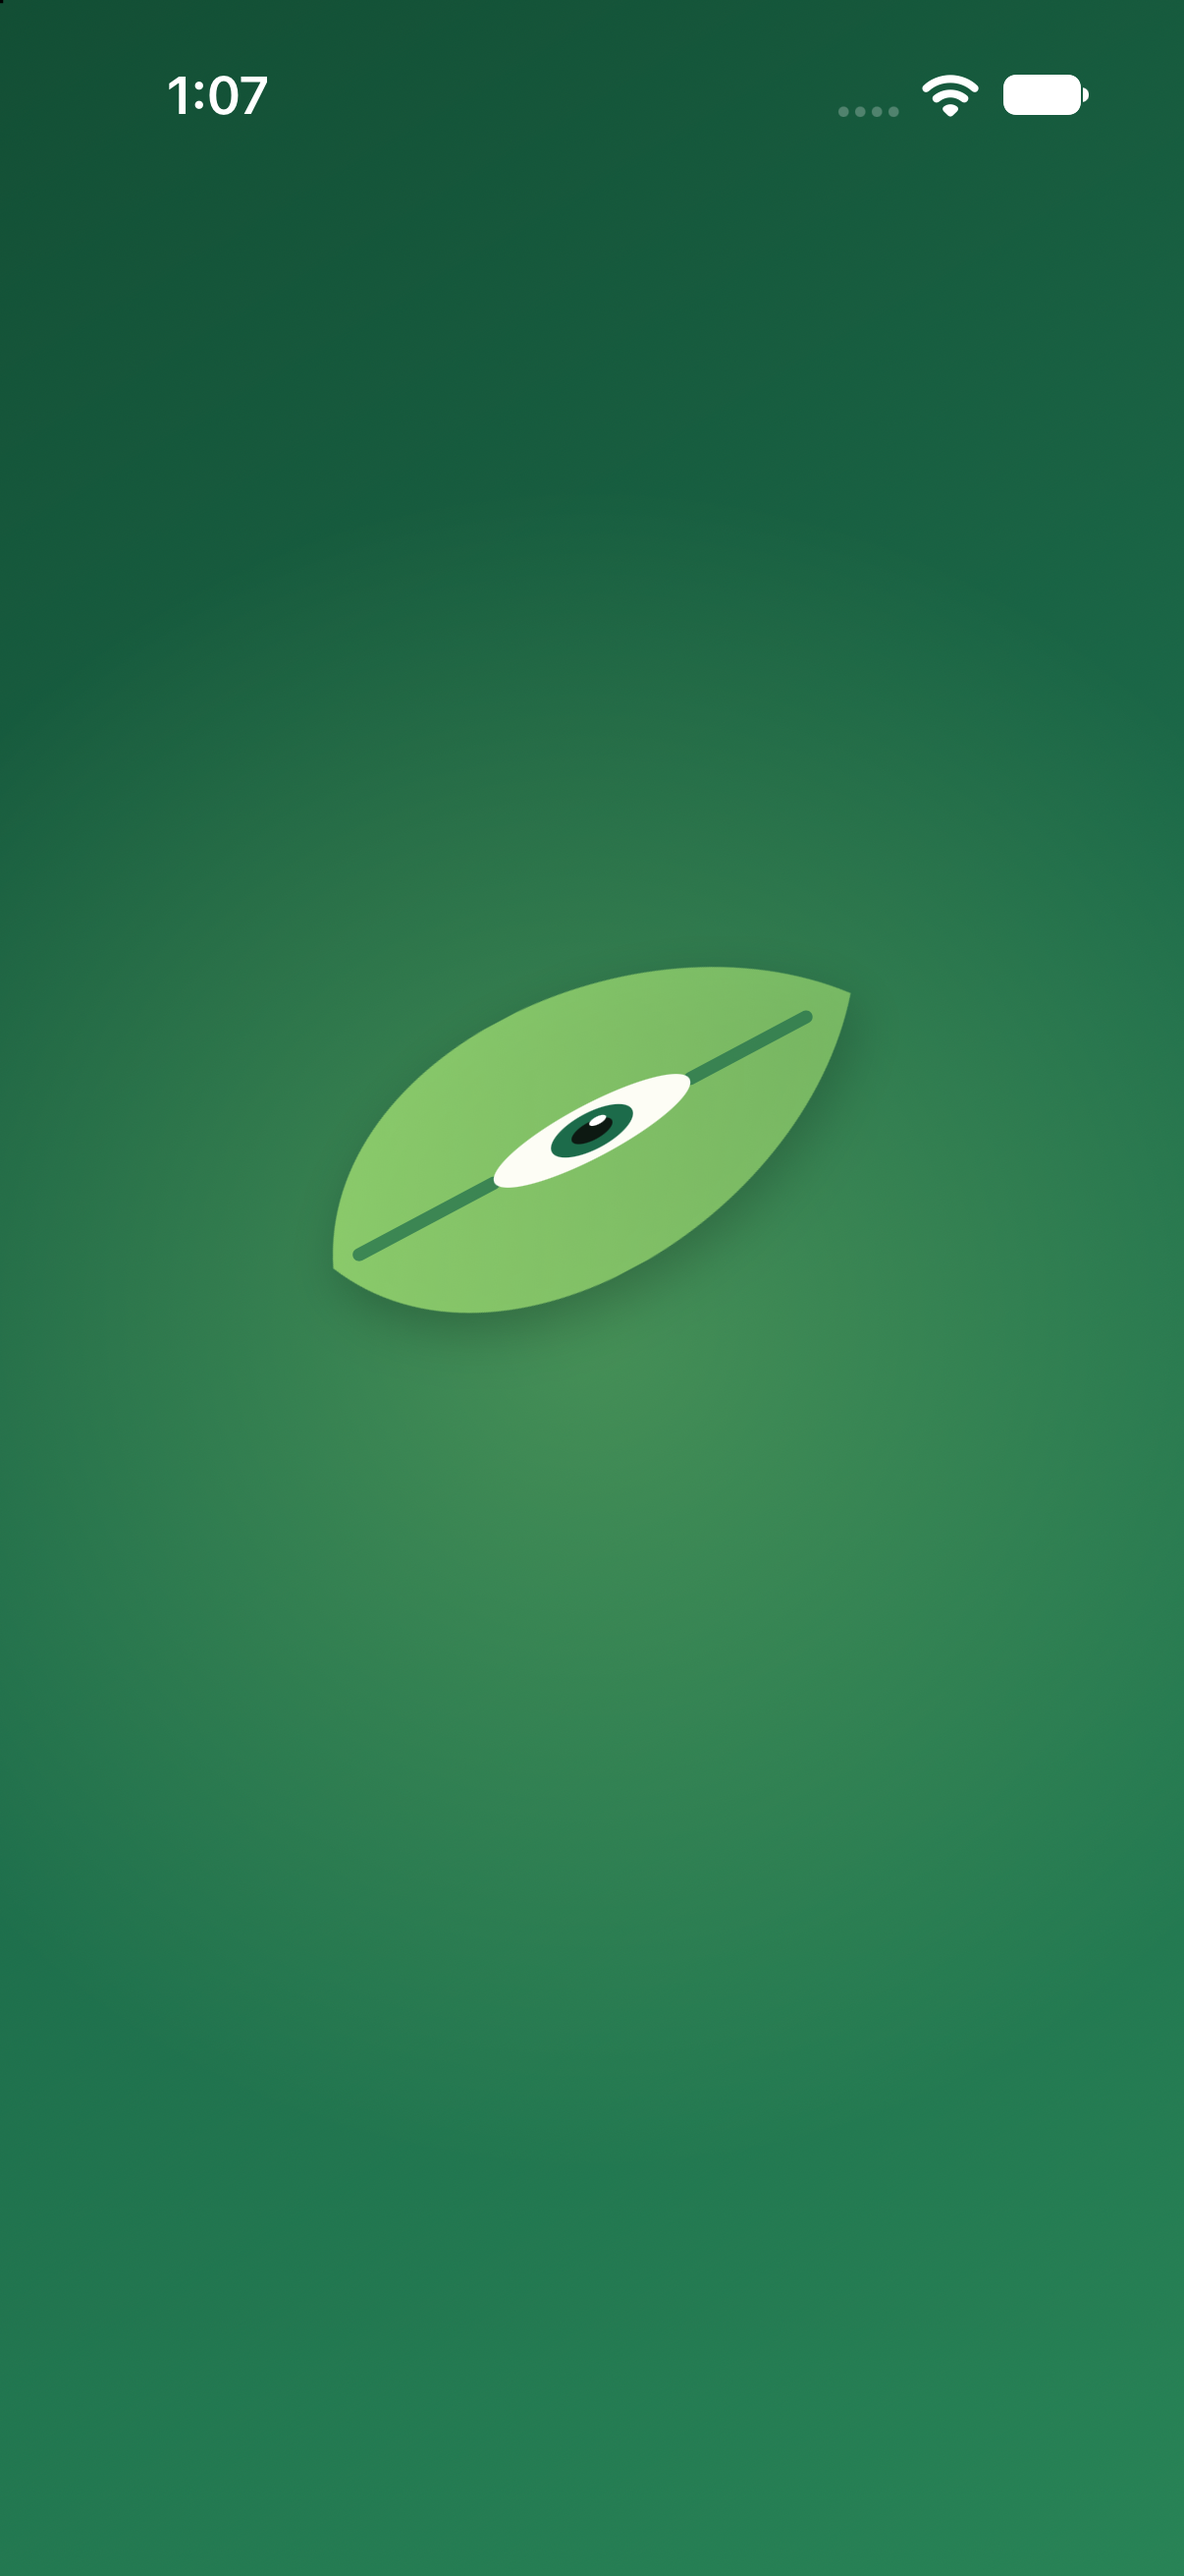
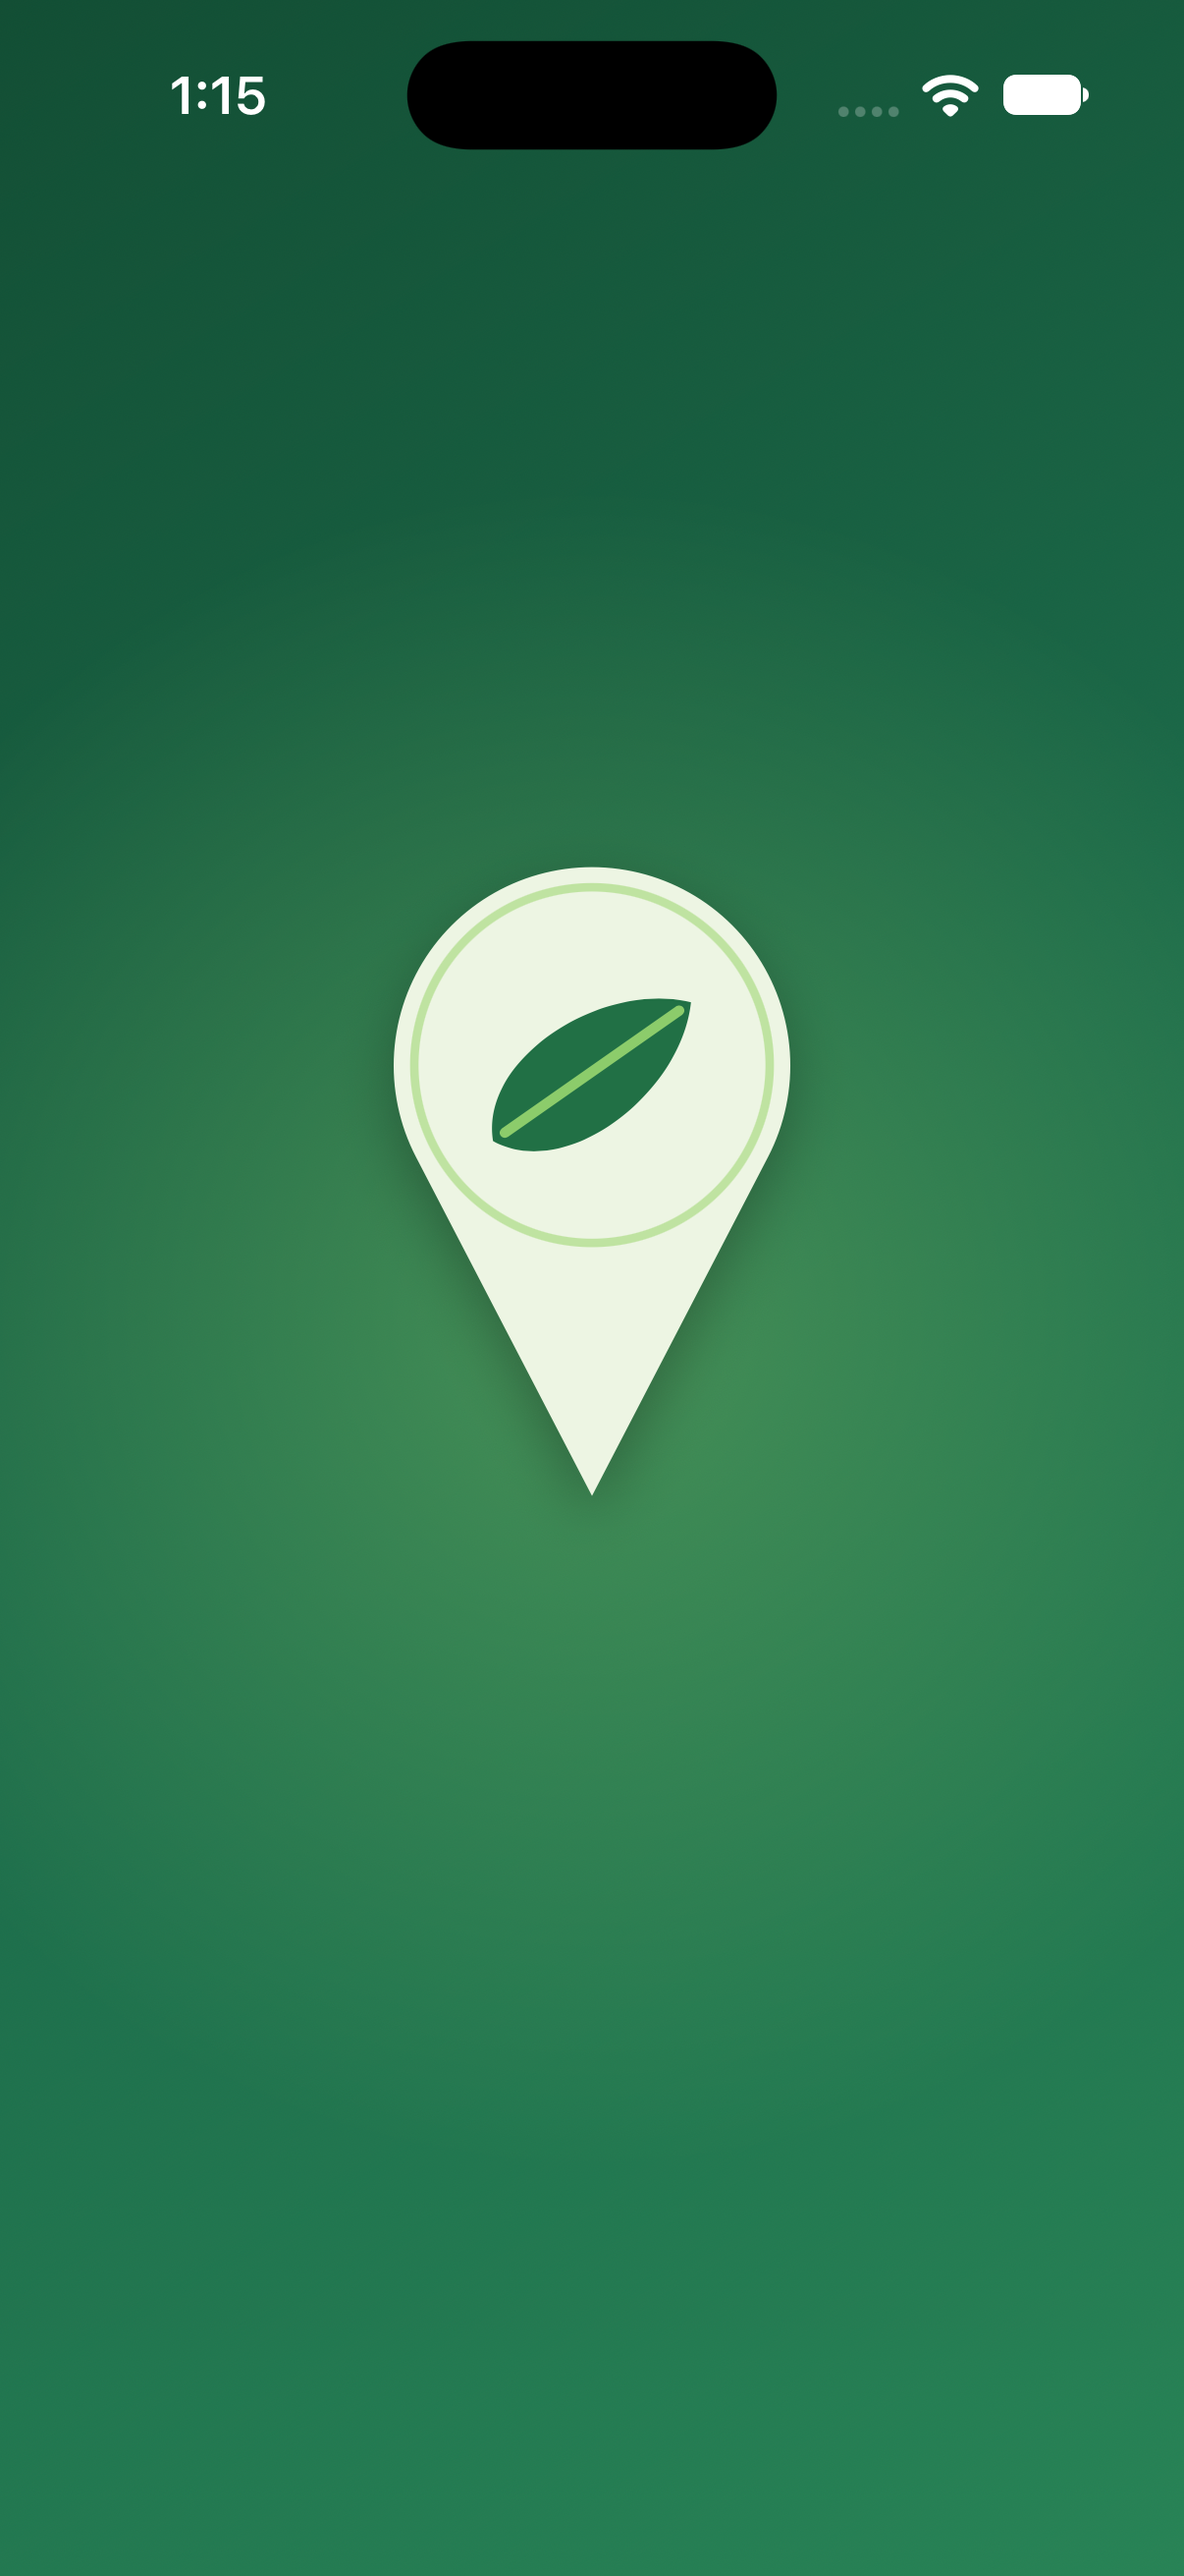
Launch frames for the pin mark; HANDOFF

Changed region(s): [[0.2761, 0.3089, 0.7363, 0.587], [0.3375, 0.0, 0.675, 0.0618], [0.1534, 0.0309, 0.2148, 0.0618]]

diff --git a/HANDOFF.md b/HANDOFF.md
@@ -1,6 +1,6 @@
 # HANDOFF: Autrey Mill Sentry
 
-Updated 2026-10-13 (02:40). Project: `~/autrey-mill-sentry` (local git only, no remote). Deadline: CAC submission **Mon Oct 26, 2026, 12:00 pm ET**. Checkpoints: scanner on the phone **Oct 16**, feature complete Oct 20, polish and video Oct 24.
+Updated 2026-10-13 (03:15). Project: `~/autrey-mill-sentry` (local git only, no remote). Deadline: CAC submission **Mon Oct 26, 2026, 12:00 pm ET**. Checkpoints: scanner on the phone **Oct 16**, feature complete Oct 20, polish and video Oct 24.
 
 ## Status
 | Area | State |
@@ -8,7 +8,7 @@ Updated 2026-10-13 (02:40). Project: `~/autrey-mill-sentry` (local git only, no 
 | Step 0 environment | Xcode 27.0 installed and licensed on 12 Oct 23:00 (use `DEVELOPER_DIR=/Applications/Xcode.app/Contents/Developer`; `xcode-select` still points at the CLT). iOS simulator runtime downloading. Earlier state: **Xcode was not installed** (only Command Line Tools at `/Library/Developer/CommandLineTools`); no `.xcodeproj` existed, no iPhone visible on USB. Swift 6.3.3 CLT, macOS 26.6.2, Python 3.14 (miniforge) and 3.12 (`~/.local/bin`), uv, Node 24, 395 GB free. QuantiPhy (`vmc.py` x3) is using all CPU, so training runs with `nice` and `VECLIB_MAXIMUM_THREADS=1`. |
 | Map data | Done. OSM via Overpass, clipped to the park polygon: 36 trail ways (Warsaw Trail, Mill Race, Perimeter Trail East, Forest Trail North, Forest Pass, Wetland Pass, Spur Trail + unnamed), boundary, Sal's Creek + pond, 23 POIs. Compared with the official 2024 map; discrepancies in `docs/MAP_NOTES.md`. |
 | Dataset | Done: 33,564 licensed iNaturalist photos across 114 classes (14 Tier 1 + 14 native + 84 Tier 2 + other_plant + not_plant), 4.5 GB in `data/images/` (not committed), attribution in `data/attribution.csv` and observer credits appended to `docs/LICENSES.md`. Re-run: `~/miniforge3/bin/python3 -I tools/fetch_inat.py download`. |
-| App code | **Compiles with Xcode 27.0, 0 errors, 0 warnings. On the iPhone 17 simulator (iOS 27.0): 48/48 unit tests pass, both happy-path UI tests pass (sample photo -> confirmed privet -> save -> listed in Reports; not-a-plant -> specific rescan instruction).** Screenshot walkthrough captured on iPhone 17 (`docs/screenshots/iphone-17-light/`, 15 screens, all render correctly); Also captured on iPhone 17e, iPhone 18 Pro Max dark and iPhone 17 at the largest accessibility size (all fit). XCTest accessibility audit run: real contrast/Dynamic Type/hit-area findings fixed (commit "Accessibility fixes"); re-verification chain in `data/logs/sim_chain2.log`. `docs/DESIGN_CHECKLIST.md` filled in. **Animations added 13 Oct (Jeetu's request)**: launch sequence (`App/LaunchOverlay.swift`, `Shared/Motion.swift`) and motion across scan, result, map, lists, onboarding, learn, visit; all Reduce Motion aware; skipped under `-uiTesting` unless `-showLaunch`. Launch verified frame by frame (`docs/screenshots/launch/`, `tools/launch_frames.sh`): forest-green system launch screen (`SupportingFiles/Info.plist`, merged with the generated plist), leaf + eye, title, lift. Walkthrough screenshots re-pass after the animation work. Unit tests 53/53. Not yet run on a phone: needs the signing team and a connected iPhone. Pure logic (decision, lock-on, ranking, geometry, duplicates, CSV) type-checks and runs on macOS with the CLT. All screens, services, camera pipeline, exports, Ranger mode, Learn, Visit, onboarding, settings, privacy manifest, app icon, unit tests and UI tests exist. `AutreyMillSentry.xcodeproj` was hand-written (Xcode 16 synchronized-folder format) with a shared scheme. |
+| App code | **Compiles with Xcode 27.0, 0 errors, 0 warnings. On the iPhone 17 simulator (iOS 27.0): 48/48 unit tests pass, both happy-path UI tests pass (sample photo -> confirmed privet -> save -> listed in Reports; not-a-plant -> specific rescan instruction).** Screenshot walkthrough captured on iPhone 17 (`docs/screenshots/iphone-17-light/`, 15 screens, all render correctly); Also captured on iPhone 17e, iPhone 18 Pro Max dark and iPhone 17 at the largest accessibility size (all fit). XCTest accessibility audit run: real contrast/Dynamic Type/hit-area findings fixed (commit "Accessibility fixes"); re-verification chain in `data/logs/sim_chain2.log`. `docs/DESIGN_CHECKLIST.md` filled in. **Animations added 13 Oct (Jeetu's request)**: launch sequence (`App/LaunchOverlay.swift`, `Shared/Motion.swift`) and motion across scan, result, map, lists, onboarding, learn, visit; all Reduce Motion aware; skipped under `-uiTesting` unless `-showLaunch`. Logo changed 13 Oct at Jeetu's request (no eye): a map pin with a leaf inside, location ping at the tip; same mark animates on launch (pin drop + bounce, leaf pop, ping ripple). Launch verified frame by frame (`docs/screenshots/launch/`, `tools/launch_frames.sh`): forest-green system launch screen (`SupportingFiles/Info.plist`, merged with the generated plist), leaf + eye, title, lift. Walkthrough screenshots re-pass after the animation work. Unit tests 53/53. Not yet run on a phone: needs the signing team and a connected iPhone. Pure logic (decision, lock-on, ranking, geometry, duplicates, CSV) type-checks and runs on macOS with the CLT. All screens, services, camera pipeline, exports, Ranger mode, Learn, Visit, onboarding, settings, privacy manifest, app icon, unit tests and UI tests exist. `AutreyMillSentry.xcodeproj` was hand-written (Xcode 16 synchronized-folder format) with a shared scheme. |
 | Model v2 (bundled) | EfficientNet-B0 at 256 px, 20 epochs on MPS (~35 min), observer-level split 26,199 / 4,131 / 3,234 images (6,430 / 702 / 827 observers). **Test top-1 85.6%, top-3 93.4%; Tier 1 top-1 88.7%, Tier 2 85.5%, natives 90.3%.** Temperature 0.796, test ECE 0.016. Confirm target 97% precision on validation: global threshold 0.82 (+14 per-class, floor 0.60), margin 0.30: **test precision 95.9%, coverage 78.8%**, natives/others wrongly confirmed 0.8%, not_plant rejected 74.2%. Core ML FP16 export 8.0 MB, top-1 agreement with PyTorch 40/40. Files: `model/eval/v2_eval.json`, `docs/MODEL_CARD.md`, `Resources/model_card.json`, `Resources/thresholds.json`, `Resources/InvasiveClassifier.mlpackage`. v1 (MobileNetV3-Large 224, 14 epochs) kept in `model/eval/v1_eval.json`: test top-1 81.2%, precision 96.4% at coverage 72.3%; v2 beat it on every group, so v2 ships. |
 | Docs | README, CLASSES, MAP_NOTES, SOURCES, RANKING, PRIVACY, LICENSES written. MODEL_CARD comes from the real eval. DESIGN_CHECKLIST, DEMO_SCRIPT, SHORT_ANSWERS, FEATURE_LIST: Step 5. |
 
